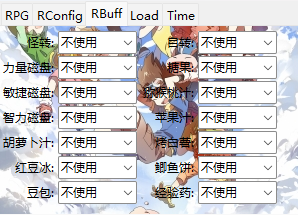
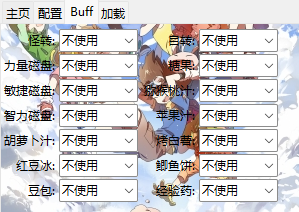
new version

diff --git a/_layouts/default.html b/_layouts/default.html
@@ -22,8 +22,8 @@
       {% if page.projectArk %}
         <a href="/" class="btn">介绍</a>
         <a href="/release" class="btn">下载</a>
-        <a href="/setup" class="btn">设置</a>
-        <a href="/rpg" class="btn">RPG 教程</a>
+        <a href="/setup" class="btn">注册</a>
+        <a href="/rpg" class="btn">网页教程</a>
       {% endif %}
       {% if site.github.is_project_page %}
         <a href="{{ site.github.repository_url }}" class="btn">View on GitHub</a>
@@ -44,7 +44,7 @@
           <span class="site-footer-owner"><a href="{{ site.github.repository_url }}">{{ site.github.repository_name }}</a> is maintained by <a href="{{ site.github.owner_url }}">{{ site.github.owner_name }}</a>.</span>
         {% endif %} -->
         <p class="copyright text-muted">
-          &copy; 2021-{{ site.time | date: '%Y' }} {{site.author}} ❖ Powered by Jekyll.
+          Copyright &copy; 2021-{{ site.time | date: '%Y' }} {{site.author}} ❖ All Rights Reserved.
           </p>
         <!-- <span class="site-footer-credits">This page was generated by <a href="https://pages.github.com">GitHub Pages</a>.</span> -->
       </footer>

diff --git a/rpg.md b/rpg.md
@@ -1,20 +1,20 @@
 ---
 layout: default
 title: RPG
-description: RPG 功能教程
+description: 功能说明
 projectArk: True
 ---
 
 # RPG
-> 版本: v4.605
+> 版本: v4.626
 >
-> 更新日期: 2024.03.03
+> 更新日期: 2024.04.22
 
 - [RPG](#rpg)
-  - [基础设置](#基础设置)
-  - [RPG界面](#rpg-界面)
-  - [RCONFIG界面](#rconfig-界面)
-  - [RBUFF界面](#rbuff-界面)
+  - [菜单](#菜单)
+  - [主页](#主页)
+  - [配置](#配置)
+  - [BUFF](#buff)
   - [常见问题](#常见问题)
 
 ## 简介
@@ -24,13 +24,13 @@ projectArk: True
 
 初次使用请阅读 <A href="/setup">基础设置说明</A>
 
-## 基础设置
+## 菜单
 
-- 任务栏图标菜单：
+- 屏幕右下角任务栏小图标菜单：
 
   ![12]({{site.cdn}}/resource/taskbar.png)
 
-- 区服选择
+- 版本选择：
 
   ![12]({{site.cdn}}/resource/rpg_version.png)
 
@@ -38,7 +38,7 @@ projectArk: True
 
   ![12]({{site.cdn}}/resource/rpg_time.png)
 
-## RPG 界面
+## 主页
 > 本教程仅介绍关键内容，各功能使用方法详见 app 内功能提示
 
   ![12]({{site.cdn}}/resource/rpg.png)
@@ -50,61 +50,66 @@ projectArk: True
   ![12]({{site.cdn}}/resource/tooltips.png)
 
 - 找怪\|寻路: 
-  - 根据选择的野怪名字或寻路模式自动找怪、寻路
-  - “自动RB”系列为自动寻路，可从**关键路径**中任意位置开始自动寻路至该房终点
-  - 开关: 
-    - “启用”则原地自动识别野怪发起战斗
-    - 寻路中切至“暂停”可暂停寻路；切至“启用”则继续寻路
+  - 自动识别野怪、跑图，需准确选择数码兽名字，注意区分爆裂模式
+  - “自动RB”系列为自动寻路，可从**关键路径**中任意位置开始自动跑至该房终点
+  - 开关: 寻路中切至“暂停”可暂停寻路；切至“启用”则继续寻路
   - **新手重点注意**：
     - 若野怪关键部位被各种特效、人物、数码兽、地形等**遮挡**，则无法识别
-    - 建议：屏蔽其他人、减少特效、成长期出战，选择地形遮挡较少、人少的点位
+    - 建议：f10 屏蔽其他人、减少特效、成长期出战，选择地形遮挡较少、人少的点位
 - 上卡: 自动刷卡，默认用背包卡槽123的卡，可从背包补卡（副卡包仅支持超大卡包）
 - 召唤: 复活药需要放在主背包
   - 仅“高速气场单招”模式可主动检测高速BB死亡状态
 - 捕捉: 1hp 模式要求将一血卡放至卡槽1，且上卡调为**关闭**
 - 战斗: 1~5 决定攻击位置
     - “关闭”或“打一次”则**不攻击**
-    - 技能选择 ALL 模式可以调动副宠进攻，**副宠无法补充EVP**
-- evp: 队长 evp < 25% 时吃药类型和数量，药需放在主背包
+    - 技能选择 ALL 模式可以调动副宠进攻
+- evp: 
+  - evp < 25% 时吃药类型和数量，药需放在主背包。
+  - 技能选择 ALL 模式则全队一起回复
 - 捡物: 北美服背包满后不再拾取
   - 多捡：
     - 右键任务栏小图标 - RPG捡物 - 勾选待拾取道具
 
       ![13]({{site.cdn}}/resource/select_item.png)
       ![13]({{site.cdn}}/resource/select_item_2.png)
-  - 注意：
+  - 无法捡物：
     - 已知机器**高CPU负载**时无法捡物，可取消勾选不需要捡的道具缓解，并勾选“低性能模式”
     - 不分机器显示字体有差异，若出现已勾选物品无法拾取情况，请咨询作者
-- 兑换: 兑换类型和次数，不用时请关闭。
-  - 用法：设置好后点运行，手动与NPC对话一次即可
-- 变速优化: 屏蔽用户键盘，提升变速效果
+- 兑换: 
+  - 兑换类型和次数，不使用请关闭
+  - 开启并点运行，手动与NPC对话后开始自动兑换
+- 变速优化: 屏蔽用户键盘，提升变速效果。推荐**仅战斗**优化
 
-## RCONFIG 界面
+## 配置
 
   ![12]({{site.cdn}}/resource/rpg_config.png)
 
-- 自动登录：仅私服支持断线自动重连
+- 自动登录：
   - 填写账号、密码、角色、登录器
-  - 登录器：一般是 DigimonRPG.exe
-  - 注意：登录界面**不要勾选“记住ID”**，取消勾选后点击退出游戏即可保存
+  - 登录器：
+    - 北美服-DigimonRPG.exe
+    - 服不服-怀旧登录器.exe
+    - 宝贝服-云.exe
+  - 注意：
+    - 仅支持中文私服断线重连
+    - 登录界面**不要勾选“记住ID”**，取消勾选后点击退出游戏即可保存
 - 变速：官服无效
-- 答题：100% 准确自动答题
-  - 关闭：人工答题，方便手操
 - RPG 界面设置：
   - 阴影：开启或关闭阴影
   - 上卡：开启或关闭自动上卡
   - 技能：开启或关闭技能动画
   - 地图：开启或关闭小地图
   - 聊天：聊天框小中大
-- 扭蛋：开启后点击“运行”，游戏内点击扭蛋机
-- 强化：装备放至第一格，象征、增效放至主背包且不被遮挡，需准确选择初始等级，启动功能后点击相应NPC
+- 扭蛋：开启后点击“主页-运行”，游戏内点击扭蛋机开始自动扭蛋
+- 强化：装备放至第一格，象征、增效放至主背包且不被其他界面遮挡，**准确选择初始等级**，单击强化启动功能并点击相应NPC
 - 锁地图：（仅支持服不服）
   - 第一次使用时需根据提示点击三次按钮分析游戏数据
   - 数据解析完毕后，单击锁定/解锁小地图
-  - 小地图处于锁定状态时切换地图不会隐藏或改变锁定的小地图
+  - 小地图处于**锁定状态**时切换地图不会隐藏或改变锁定的小地图，此时即为成功。可进入任意副本使用小跳避免副本内跑图
+  - 注意：正确操作也**有概率失败**，此时需重启游戏然后重新操作
 - 快速点击：自动使用主背包第一格道具直到用完。
 
-## RBUFF 界面
+## BUFF
 
   ![12]({{site.cdn}}/resource/RBuff.png)
 - 自动 buff: 将 buff 道具放在主背包中即可

diff --git a/setup.md b/setup.md
@@ -1,43 +1,41 @@
 ---
 layout: default
-title: 设置
-description: 安装与基础设置
+title: 注册
+description: 安装、注册教程
 projectArk: True
 ---
 
-# 基础设置
+# 使用说明
 
-- [基础设置](#基础设置)
-  - [环境要求](#环境要求)
-  - [安装与启动](#启动)
-  - [更新](#更新)
-  - [选择配置](#选择配置)
-  - [快捷键](#快捷键)
-  - [其他](#其他)
 
-## 环境要求
+## 环境设置
 
 - 系统缩放：100%，[设置方法](https://jingyan.baidu.com/article/c85b7a642cd5f6413bac95b7.html)
-- 杀毒软件：卸载非 windows 的**任何杀软、管家**
-- 防火墙：添加信任或白名单
+- 防火墙：卸载非 windows 的**全部杀毒软件、软件管家**，添加系统防火墙白名单
 
 ## 启动
-- 新建文件夹，在其中运行 ProjectArk 程序
+- 新建文件夹，解压并运行 ProjectArk.exe
 - 登录界面：
-  - 定制版: 安全性更强，但若需要兼容弯刀挂机则**不可勾选**
-  - 护盾1: 建议开启此护盾避免其他游戏误检测，需要关闭 Secure Boot。私服不需要，若勾选后程序无法启动或系统蓝屏则勿开启
-  - 护盾2: 增强防检测，需要关闭 Secure Boot。私服不需要，若勾选后程序无法启动或系统蓝屏则勿开启
-  - 注：定制版本身已足够安全，护盾仅为锦上添花
+  - 定制版: 安全性更强
+  - 护盾1: 建议开启此护盾避免其他游戏误检测，需要关闭 Secure Boot
+  - 护盾2: 增强防检测，需要关闭 Secure Boot
+  - 注：私服不需要，若勾选后程序无法启动或系统蓝屏则勿开启
+- 注册：自助注册，时长自动到账，扫码切忌超时
+- 赞助：到期后自行赞助，时长自动到账，扫码切忌超时
+- 更改：修改账号密码
+- 关于：联系方式
   
   ![23]({{site.cdn}}/resource/ark_login.png)
 
-- 主界面：
+<!-- - 主界面：
 
-  ![12]({{site.cdn}}/resource/main.png)
+  ![12]({{site.cdn}}/resource/main.png) -->
 
-- 时长：
+- 时长查询：
 
   ![12]({{site.cdn}}/resource/rpg_time.png)
+
+- 启动失败：请前往下载页面安装全部的修复程序后再次尝试
 
 ## 更新
 - [官网]({{site.cdn}}/release)下载更新
@@ -56,14 +54,15 @@ projectArk: True
 - 左键小图标：隐藏/显示 ProjectArk
 - ctrl-s: 保存参数设置
 - ctrl-w: 关闭 ProjectArk
-- 自定义快捷键：修改配置文件中相关内容
+
+<!-- - 自定义快捷键：修改配置文件中相关内容
 
       ...
       "ShortCut": {
           "save": "S",
           "exit": "W"
       }
-      ...
+      ... -->
 
 ## 其他
 - 手动修改配置文件时需注意使用英文双引号，不可用单引号或中文双引号

diff --git a/release.md b/release.md
@@ -1,13 +1,13 @@
 ---
 layout: default
 title: 发布
-description: 赞助与下载安装程序
+description: 下载和修复
 projectArk: True
 ---
 
 
 ## 赞助
->注：邀请新用户赞助可获赠 7 天时长
+>注：邀请新用户注册可获赠 7 天时长
 
 <table>
   <tbody>
@@ -45,20 +45,20 @@ projectArk: True
   }
 </script>
 ## 下载地址
-> 选择与自身计算机系统版本匹配的主程序
+> 根据使用的计算机系统版本选择
 <TABLE cellspacing ="1" cellpadding ="6" border = "0">
   <TR>
     <TH class="Title" align="center" width=auto>程序</TH>
     <TH class="Title" align="center" width=auto>更新日期</TH>
     <TH class="Title" align="center" width=auto>版本</TH>
-    <TH class="Title" align="center" width=auto>系统</TH>
+    <TH class="Title" align="center" width=auto>计算机系统</TH>
     <TH class="Title" align="center" width=auto>下载线路</TH>
   </TR>
   <TR>
     <TD class="Item" align="center">ProjectArk</TD>
     <TD class="Item" align="center">{{ site.projectArk_version_update }}</TD>
     <TD class="Item" align="center">{{ site.projectArk_version }}</TD>
-    <TD class="Item">windows 10/11 专用</TD>
+    <TD class="Item">windows 10/11</TD>
     <TD class="Item" align="center">
       <script type="text/javascript">
         var cn_url="{{ site.bucket_url }}";
@@ -84,7 +84,7 @@ projectArk: True
 
 
 ## 修复程序
-> 仅在程序无法正常启动时下载安装
+> 程序无法启动或登录时下载安装
 
 <TABLE cellspacing ="1" cellpadding ="6" border = "0">
   <TR>
